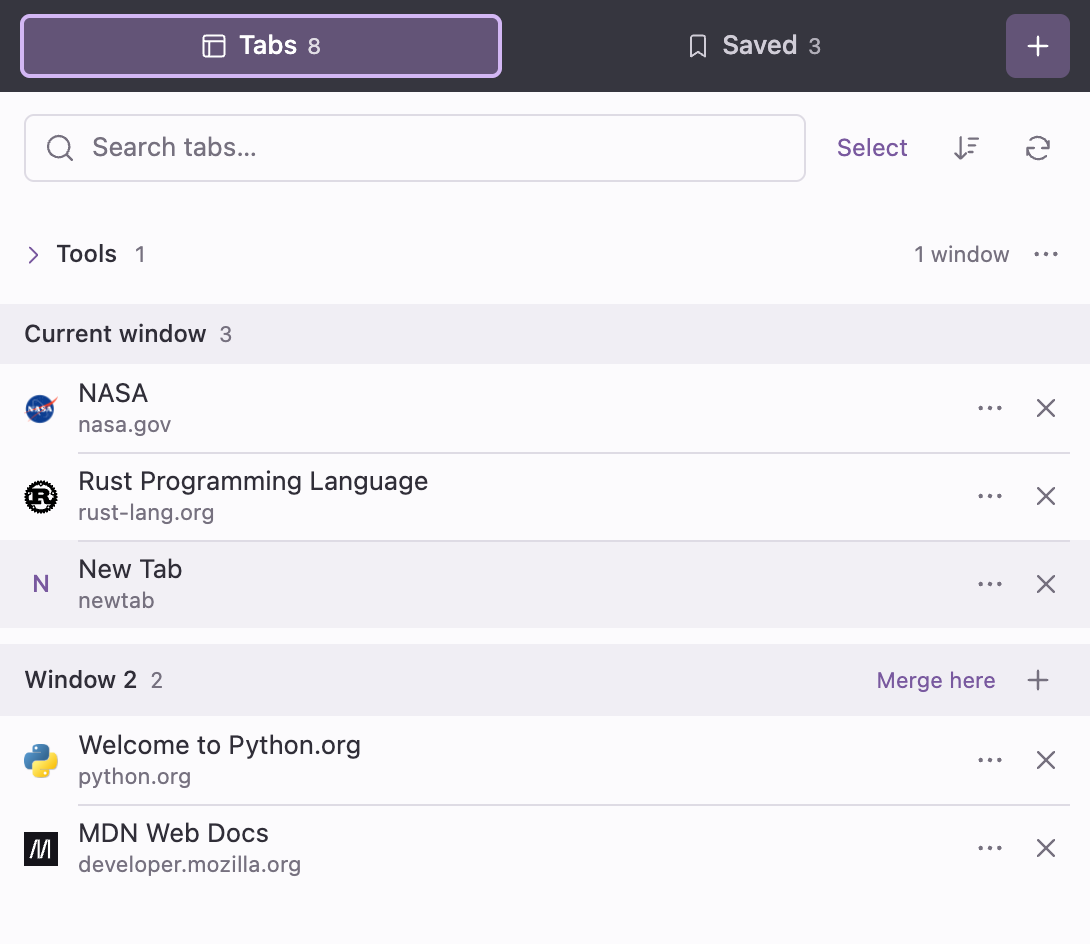
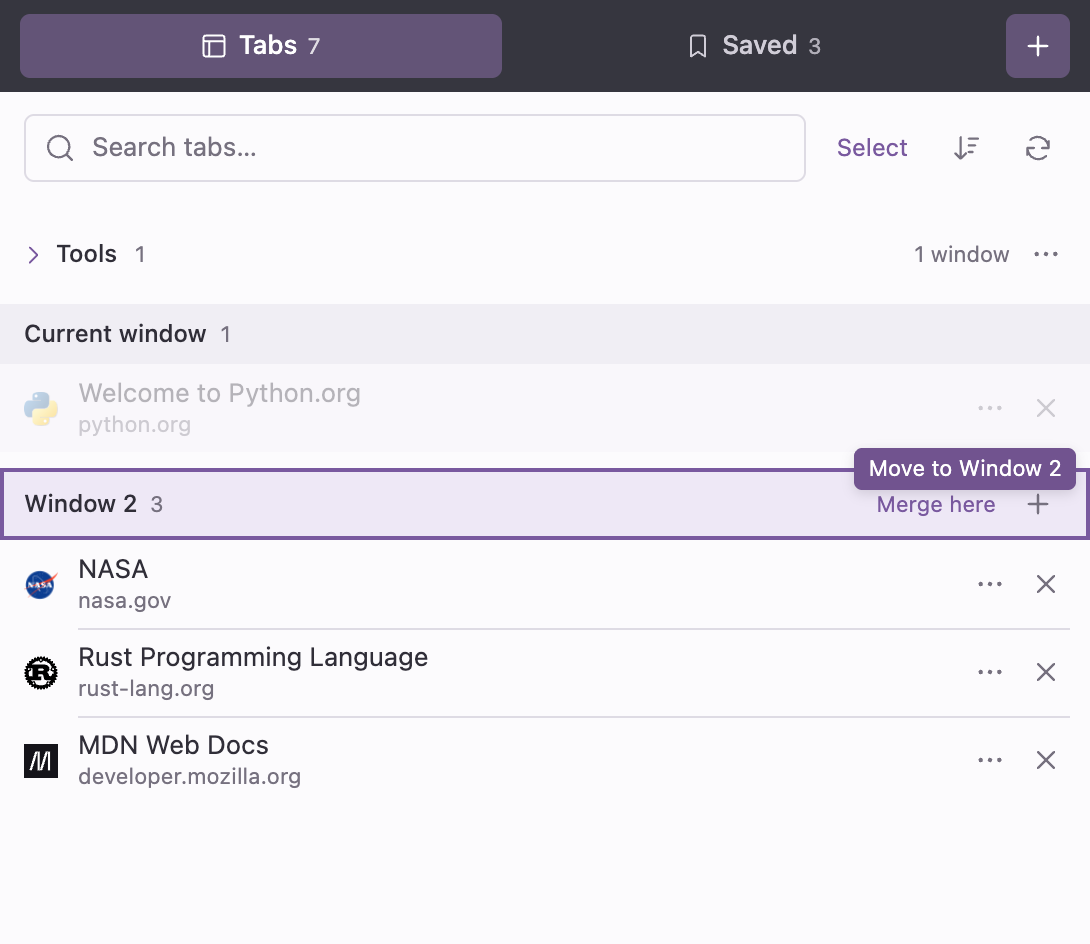
(chore): (Prepare Ztab 2.3.0 with verified upgrade packaging, direct drag release notes, and refreshed store artwork for manual publication)

diff --git a/CHROME_WEB_STORE.md b/CHROME_WEB_STORE.md
@@ -1,66 +1,66 @@
-# Ztab 2.2.0 release
+# Ztab 2.3.0 release
 
-Version **2.2.0** is prepared for release and manual Chrome Web Store upload. It adds New Tab actions in the side panel, updates the optional support recipient and QR code, and refreshes the Store screenshots. This document records local preparation; GitHub release publication and Store upload are separate steps.
+Version **2.3.0** is prepared for release and manual Chrome Web Store upload. Dragging a regular tab onto another window's heading or one of its tabs now moves the real tab to that window immediately. GitHub release publication and Store upload remain separate steps.
 
 ## Release baseline
 
-On **2026-09-22**, the [public Store item](https://chromewebstore.google.com/detail/ztab-tab-manager/fakbifeeblnopdhicpmhhmcdhmefphjp?hl=en) showed **Ztab: The last tab manager you’ll need.**, version **2.1.1**, updated **September 19, 2026**. The previous [GitHub release](https://github.com/z08-studio/ztab/releases/tag/v2.1.1) points to `36e271af1bd98df67c5769fb66f5c5a56900c540`.
+On **2026-10-01**, the [public Store item](https://chromewebstore.google.com/detail/ztab-the-last-tab-manager/fakbifeeblnopdhicpmhhmcdhmefphjp) showed **Ztab: The last tab manager you’ll need.**, version **2.2.0**, updated **September 23, 2026**. This was checked in Chrome; the search index still returned an older version.
 
[2 lines of base64/hex data omitted]
 
-## Changes from 2.1.1 to 2.2.0
+The cross-window drag implementation is merged in [PR #16](https://github.com/z08-studio/ztab/pull/16), commit `a33e3c57500b2d388cb00cfd7e90647e4b22d266`.
+
+## Changes from 2.2.0 to 2.3.0
 
 | Area | Change |
 | --- | --- |
-| New Tab | **+** beside Tabs and Saved creates an active, unpinned tab in the panel's host window, using Chrome's configured New Tab page. |
-| Other windows | **+** on another window's heading creates a tab there and focuses that window. The current-window heading has no duplicate action. |
-| Interactions | New Tab works from Saved, searches, selection, and Move mode. A successful creation returns to Tabs, clears only its search, and reveals the new row. Saved searches remain. Enter and Space activate the buttons. |
-| Failure handling | Pending and duplicate clicks are blocked. Creation failure preserves the view; focus or refresh failure after creation reports that the tab already opened. Host and destination checks preserve normal/private boundaries. |
-| Optional support | The displayed, copied, and QR-encoded recipient is `0x64719eBcD29fBbaDCCFb53Cb16aB18cff81a8067` for USDC on Base. |
-| Store materials | Fresh 2.2.0 captures show New Tab, pinned tabs, bulk selection, and Saved. English listing copy and release notes describe the new actions. |
+| Cross-window dragging | Drop on another window's heading or a regular tab from that window to move the actual tab to the destination window's end. Row centers and edges show **Move to …** immediately in both Recently used and Manual order. |
+| Groups | A successful window move removes the tab's Ztab group membership and reveals it in the destination window section. Failed moves preserve membership and manual order. Same-window grouping, explicit group-header drops, and menu actions remain available. |
+| Window state | The destination keeps its current page selected. Window headings remain drop targets when every tab is grouped. Chrome closes a source window after its last tab moves. |
+| Safety | The background writer validates the original window and membership, rechecks live tabs and destinations, excludes pinned tabs and compact windows, and preserves browsing-mode boundaries. Escape cancels a drag. |
+| Store materials | English listing copy and release notes explain direct dragging. The cover and marquee use a fresh 2.3.0 capture of the move hint. |
 
-The ZIP differs from 2.1.1 in seven runtime files: the manifest, side-panel HTML, panel CSS and JavaScript, workspace controller, support constant, and bundled support QR. There are no new permissions, storage keys, dependencies, or minimum-version changes. **Chrome 123 or later** remains required.
+Six runtime files differ from 2.2.0: the manifest, panel JavaScript and CSS, drag controller, workspace controller, and shared workspace utility. There are no new permissions, storage keys, dependencies, or minimum-version changes. **Chrome 123 or later** remains required.
 
-Saved pages, collections, group definitions, shared pinned sites, and preferences persist. As before, live group membership, manual ordering, and recent-use records reset on an extension update or browser restart. The support dialog does not connect a wallet or initiate a payment.
+Saved pages, collections, group definitions, shared pinned sites, and preferences persist. As before, live group membership, manual ordering, and recent-use records reset on an extension update or browser restart. Groups are not saved browser sessions.
 
 ## Release status and package
 
 | Item | Status |
 | --- | --- |
-| Target version | 2.2.0 in both `manifest.json` and `package.json` |
-| Previous GitHub release | `v2.1.1`; its tag and assets remain unchanged |
+| Target version | 2.3.0 in both `manifest.json` and `package.json` |
+| Previous GitHub release | `v2.2.0`; its tag and assets remain unchanged |
 | Existing Store item | `fakbifeeblnopdhicpmhhmcdhmefphjp` |
-| Public Store version | 2.1.1, verified 2026-09-22 |
-| Local archive | `ztab-2.2.0.zip`; 83,090 bytes (81.1 KiB), built 2026-09-22 |
[1 lines of base64/hex data omitted]
+| Public Store version | 2.2.0, verified 2026-10-01 |
+| Local archive | `ztab-2.3.0.zip`; 83,916 bytes (81.9 KiB), built 2026-10-01 |
[1 lines of base64/hex data omitted]
 | Package contents | 45 runtime files, with `manifest.json` at the archive root |
-| Release branch | `bear-prepare-v2-2-release`, targeting `main` through a release PR |
+| Release branch | `bear-prepare-v2-3-release`, targeting `main` through a release PR |
 | GitHub tag and release | Pending release PR merge and publication |
 | Store upload, review submission, publication | Pending; to be completed manually by Bear |
 
 Run `pnpm assets:store` to regenerate icons and marketing assets. Run `pnpm package` to execute tests, validate versions, JavaScript syntax and manifest references, and generate `dist-store/` plus the ZIP. The package excludes dependencies, tests, development docs, local output, and marketing images. Rebuilding the archive requires updating its size and checksum here.
 
-## Verification — 2026-09-22
+## Verification — 2026-10-01
 
-- [x] Run `pnpm package`: **158 tests pass**; packaged JavaScript syntax and manifest references validate.
-- [x] Verify all 45 archived files match the source and `dist-store/` byte-for-byte; archive integrity and the runtime allowlist pass. Compare all files with the downloaded 2.1.1 ZIP and confirm unchanged permissions and minimum Chrome version.
-- [x] Load the published 2.1.1 package at a fixed unpacked path in an isolated Chrome for Testing **153.0.8010.12** profile on macOS. Seed three Saved entries, a collection, two group definitions, pinned Wikipedia in two windows, and panel preferences. Replace the files with 2.2.0 and reload through Chrome's extension page with Developer mode enabled.
-- [x] Confirm the same extension ID, enabled 2.2.0 version, unchanged Saved entries/collection IDs/group definitions, two pinned copies, pinned origins, and hidden-pins/sort/dismissed-tip preferences. Live membership and manual order clear as documented. Verify New Tab after the upgrade and check the support dialog's new recipient.
-- [x] Retain the feature's native side-panel, keyboard, Saved/search, failure-path, and 280/320/400px light/dark checks in [tests/README.md](tests/README.md#new-tab-checks).
-- [x] Capture the actual 2.2.0 side-panel document with real public pages and regenerate Store materials. Inspect the refreshed sources, cover, and both overview sheets. All five screenshots are 1280×800, the two promotional tiles have the expected dimensions, and all seven marketing images are opaque RGB PNGs. The four approved extension icons remain byte-identical.
-- [x] Run `git diff --check`. Keep documentation, listing copy, screenshot samples, and release notes in English.
+- [x] Run `pnpm test` and `pnpm package`: **170 tests pass**; packaged JavaScript syntax and manifest references validate.
+- [x] Verify all 45 archived files match the source and `dist-store/` byte-for-byte; archive integrity and the runtime allowlist pass. Compare with the downloaded 2.2.0 ZIP and confirm unchanged permissions and minimum Chrome version.
+- [x] Upgrade the published 2.2.0 package at a fixed unpacked path in isolated Chrome for Testing **153.0.8010.12** on macOS, with Developer mode enabled. The extension ID, all seven tab IDs, three Saved entries, a collection, two group definitions, two pinned copies, pinned origins, and hidden-pins/sort/dismissed-tip preferences are preserved. Live membership and manual order reset as documented.
+- [x] Retain the real-browser drag checks and light/dark 320px screenshots in [tests/README.md](tests/README.md#cross-window-drag-verification). They cover both sort modes, heading/row drops, grouped tabs, an empty current-window section, the last source tab, destination selection, Escape, and compact-window rejection.
+- [x] Confirm cross-window dragging and New Tab work after the upgrade. Capture the genuine move hint with public sample pages, regenerate Store artwork with `pnpm assets:store`, and inspect the source, cover, marquee, and review sheets. Other Store screenshots retain their documented earlier captures; icons remain byte-identical.
+- [x] Run `git diff --check` after completing the release documentation and assets.
 
-The local unpacked upgrade does not establish Store delivery. Live incognito creation, third-party New Tab overrides, Windows/Linux, and Chrome 123–129 were not manually rechecked; mode boundaries and creation/focus failure have automated coverage. Local upgrade snapshots, screenshots, and package verification records are in ignored `output/`.
+The local unpacked upgrade does not establish Store delivery. Native side-panel closure during a last-tab move, private-mode dragging, Windows/Linux, and Chrome 123–129 were not manually rerun. Last-source-window completion, mode boundaries, stale state, and failure paths have automated coverage. Local upgrade snapshots and package verification records are in ignored `output/`.
 
 ## Manual Chrome Web Store rollout
 
 Update the [existing item](https://chromewebstore.google.com/detail/fakbifeeblnopdhicpmhhmcdhmefphjp) in the [Developer Dashboard](https://chrome.google.com/webstore/devconsole). Keep its extension ID so installed users receive the update.
 
-1. Merge the release PR into `main`; publish the `v2.2.0` GitHub release against that reviewed source when ready. Attach the verified ZIP and its checksum without replacing older release assets.
-2. Upload **`ztab-2.2.0.zip`** as the new package in the existing Store item.
-3. Use the current English description and **2.2.0** release notes from [store-listing/LISTING.md](store-listing/LISTING.md). Preserve the approved product name and Telegram community invitation.
-4. Upload the 128px icon, five individual screenshots, and two promotional tiles from [store-listing/assets/final/](store-listing/assets/final/), following [ARTWORK.md](store-listing/ARTWORK.md). Do not upload overview sheets or source captures.
+1. Merge the release PR into `main`; publish the `v2.3.0` GitHub release against that reviewed source when ready. Attach the verified ZIP and its checksum without replacing older release assets.
+2. Upload **`ztab-2.3.0.zip`** as the new package in the existing Store item.
+3. Use the English description and **2.3.0** release notes from [store-listing/LISTING.md](store-listing/LISTING.md). Preserve the approved product name and Telegram community invitation.
+4. Replace the cover screenshot (`screenshots/screenshot-01-side-panel.png`) and marquee (`promo-marquee-1400x560.png`) from [store-listing/assets/final/](store-listing/assets/final/). The other screenshots, small promo, and approved icons remain valid. Do not upload overview sheets or source captures.
 5. Check the Dashboard's privacy and permission declarations against the current listing and policy. Support remains `https://github.com/boundless-forest/ztab/issues`; privacy is `https://github.com/boundless-forest/ztab/blob/main/PRIVACY_POLICY.md`. These established links redirect to the current repository.
-6. Save the package and listing changes, submit for review, and record submission separately from public availability. After publication, verify the Store shows **2.2.0**, an installed update retains its ID and persistent data, and New Tab, the toolbar shortcut, and pinned synchronization work. Update this guide and the README after publication is confirmed.
+6. Save the package and listing changes, submit for review, and record submission separately from public availability. After publication, verify the Store shows **2.3.0**, an installed update retains its ID and persistent data, and cross-window dragging, New Tab, the toolbar shortcut, and pinned synchronization work. Update this guide and the README after publication is confirmed.
 
 The current repository is [z08-studio/ztab](https://github.com/z08-studio/ztab). Historical `pinallwindows.*` keys and runtime message names are compatibility identifiers and must not be renamed for this release.

diff --git a/store-listing/QA.md b/store-listing/QA.md
@@ -1,14 +1,14 @@
-# Artwork verification — Ztab 2.2.0 — 2026-09-22
+# Artwork verification — Ztab 2.3.0 — 2026-10-01
 
 - Approved copy: **A — The last tab manager you’ll need.** Documentation, marketing copy, and screenshot samples use English.
 - Approved identity: B1 Tab Hub, P2 indigo. All four regenerated extension icons remain byte-identical to the prior revision.
 - Exports: **5 × 1280×800** Store screenshots, **440×280** and **1400×560** promotional tiles. All seven marketing images are opaque RGB PNGs. Two overview sheets cover the Store images and brand system.
-- Sources: refreshed Tabs, pinned tabs, bulk selection/action bar, and Saved from the actual **Ztab 2.2.0** side-panel document in an isolated Chrome for Testing 153 profile at device scale factor 2. Real Wikipedia, NASA, Python, Rust, and MDN pages are open in two windows. The unchanged keyboard-help dialog retains its earlier capture.
-- Authenticity: the Tools group is collapsed in the main capture. The bulk capture uses an HTTPS search, hidden pinned tabs, and four selected public pages; the action bar comes from the same selection. Saved shows the genuine **Public resources** collection preserved during the upgrade. Counts and product pixels are not edited or reconstructed.
-- Visual review: inspected all refreshed sources, the final cover, and both overview sheets. New Tab controls, window actions, page titles, favicons, and collection names remain readable. Screenshots scale proportionally.
-- Rendering: `pnpm assets:store` completes using bundled Manrope and Instrument Serif fonts. Approved slogan line breaks and source dimensions validate; the cover now shows **Ztab 2.2**.
-- Package: `pnpm package` passes **158 tests**, validates packaged JavaScript and manifest entries, and creates `ztab-2.2.0.zip`. All 45 archived files match the source and staging directory. Version numbers are 2.2.0; permissions remain unchanged.
-- Upgrade: the fixed-path 2.1.1 → 2.2.0 check preserves the extension ID, Saved, collections, group definitions, pinned sites/copies, and panel preferences. See [the release guide](../CHROME_WEB_STORE.md) for evidence and scope.
+- Sources: the main Tabs capture is from the actual **Ztab 2.3.0** extension page after upgrading the published 2.2.0 package in isolated Chrome for Testing **153.0.8010.12** on macOS at device scale factor 2. It shows a real Python-tab drag onto another window's heading. Pins, bulk actions, and Saved retain their unchanged 2.2.0 captures; the unchanged keyboard-help dialog retains its 2.0 capture. Individual dates and versions are recorded in the provenance file.
+- Authenticity: the Tools group is collapsed in the main capture, pinned tabs are hidden, and only public pages are visible. The live **Move to Window 2** hint and destination outline come directly from the running extension. Counts and product pixels are not edited or reconstructed.
+- Visual review: inspected the refreshed source, final cover and marquee, and both overview sheets. The destination hint, New Tab controls, window actions, page titles, and favicons remain readable. Screenshots scale proportionally.
+- Rendering: `pnpm assets:store` completes using bundled Manrope and Instrument Serif fonts. Approved slogan line breaks and source dimensions validate; the cover now shows **Ztab 2.3** and describes direct window moves.
+- Package: `pnpm test` and `pnpm package` pass **170 tests**, validate packaged JavaScript and manifest entries, and create `ztab-2.3.0.zip`. All 45 archived files match the source and staging directory. Version numbers are 2.3.0; permissions and the Chrome 123 minimum remain unchanged.
+- Upgrade: the fixed-path 2.2.0 → 2.3.0 check preserves the extension ID, all seven tab IDs, three Saved entries, a collection, two group definitions, two pinned copies, pinned origins, and panel preferences. Live membership and manual order reset as documented. Cross-window dragging and New Tab work after the upgrade. See [the release guide](../CHROME_WEB_STORE.md) for evidence and scope.
 - Cleanup: browser profiles and review output stay in ignored `output/` or outside the repository. `git diff --check` passes.
 
 These checks cover local source, artwork, and package preparation. Chrome Web Store upload and publication will be completed manually.

diff --git a/store-listing/LISTING.md b/store-listing/LISTING.md
@@ -1,6 +1,6 @@
 # Ztab store listing
 
-Prepared English copy for the **2.2.0** update to the existing Chrome Web Store item. The three product pillars are cross-window tab management, shared pinned tabs, and keyboard shortcuts with thoughtful interactions. Upload and submission will be completed manually; see [the release guide](../CHROME_WEB_STORE.md) for rollout status.
+Prepared English copy for the **2.3.0** update to the existing Chrome Web Store item. The three product pillars are cross-window tab management, shared pinned tabs, and keyboard shortcuts with thoughtful interactions. Upload and submission will be completed manually; see [the release guide](../CHROME_WEB_STORE.md) for rollout status.
 
 ## Product name
 
@@ -34,6 +34,7 @@ MANAGE TABS ACROSS WINDOWS
 • Jump directly to a tab in any normal window
 • Create a new tab with + beside Tabs and Saved, or use + on another window's heading to open one there
 • Move or close regular tabs without bringing each window forward
+• Drag a tab onto another window's heading or one of its tabs to move it there immediately
 • Keep related tabs in Ztab groups across windows without moving their browser tabs
 • Find recently used tabs first, or arrange them in Manual order
 • Select several tabs to group, move, close, or save together
@@ -75,13 +76,28 @@ Ztab works between windows on the same computer and in the same Chrome profile. 
 
 Merge here works between eligible normal windows in the same browsing mode. Chrome closes a source window when its last tab moves. Shared pinned copies are deduplicated; identical regular tabs stay open. There is no merge undo action.
 
-Ztab groups are independent of Chrome's native tab groups. Grouping and sorting change only Ztab's list. Saved is independent of Chrome bookmarks; it contains only pages you explicitly save. Incognito groups and Saved use a separate temporary library, cleared when the last incognito window closes.
+Cross-window dragging moves the real tab to the end of the destination window and removes its Ztab group membership after the move succeeds. The destination keeps its current page selected. It works in both Recently used and Manual order; clear search before dragging. Pinned tabs cannot be dragged, and both windows must be eligible regular windows in the same browsing mode.
+
+Ztab groups are independent of Chrome's native tab groups. Grouping and sorting change only Ztab's list. To create a group by dragging, hold over the center of another tab in the same Chrome window; explicit group-header drops and menu actions can group tabs across windows. Saved is independent of Chrome bookmarks; it contains only pages you explicitly save. Incognito groups and Saved use a separate temporary library, cleared when the last incognito window closes.
 
 JOIN THE COMMUNITY
 
 Have a question, found a bug, or have an idea for Ztab? Join our Telegram community: https://t.me/z08_studio
 
-## Release notes — 2.2.0
+## Release notes — 2.3.0
+
+Ztab 2.3 makes moving tabs between windows a direct drag-and-drop action.
+
+• Drag a tab onto another window's heading or one of its tabs to move it there immediately
+• See the destination in a Move to … hint, with no hold delay in either sort mode
+• Move the actual browser tab instead of creating or joining a group on a cross-window row drop
+• Keep the destination's current page selected and show the moved tab in its window section
+• Move grouped tabs out of their Ztab group only after the browser move succeeds
+• Keep window headings available as drop targets even when all their tabs are grouped
+
+Same-window grouping, explicit group-header drops, and menu actions remain available. No new permissions are required. Your Saved library, collections, group definitions, shared pinned sites, and preferences remain in your local profile. As before, live group membership, manual tab order, and recent-use records reset when the extension updates. Chrome 123 or later is required.
+
+## Previous release notes — 2.2.0
 
 Ztab 2.2 makes it easier to open your next tab without leaving the side panel.
 

diff --git a/store-listing/ARTWORK.md b/store-listing/ARTWORK.md
@@ -34,7 +34,7 @@ The Store image sizes follow the [Chrome Web Store image guidance](https://devel
 
 Use the Store screenshots in this order:
 
-1. **Across windows** — approved slogan and public pages from two Chrome windows; New Tab actions, switching and Merge here are visible.
+1. **Across windows** — approved slogan and a direct window move in Ztab 2.3; the genuine **Move to Window 2** hint appears above the destination heading.
 2. **Pinned tabs** — “Pin once.” The real Wikipedia search shows pinned copies in two windows.
 3. **Keyboard shortcuts** — “Stay in flow.” The actual help dialog accompanies a three-step keyboard sequence.
 4. **Bulk actions** — “A little less tab juggling.” Four public pages selected across windows, with their action bar separately displayed and labeled.
@@ -44,13 +44,15 @@ Use the Store screenshots in this order:
 
 ## Authentic screenshot sources
 
-The windows, pins, bulk selection/action bar, and Saved sources were captured on **2026-09-22** from the actual **Ztab 2.2.0 side-panel document** in an isolated **Chrome for Testing 153** profile using Playwright at device scale factor 2. Real public pages are open in two Chrome windows. The **Public resources** collection contains Wikipedia, NASA and Python pages and was preserved during the verified upgrade from 2.1.1. Public websites also include Rust and MDN; page titles and favicons come from those sites. The unchanged keyboard-help dialog retains its **2026-09-17** capture from installed **Ztab 2.0** in the user's Chrome with Shottr.
+The windows source was refreshed on **2026-10-01** from the actual **Ztab 2.3.0 side-panel document** after a fixed-path upgrade from the published 2.2.0 package in an isolated **Chrome for Testing 153** profile. It shows a real drag from Python to another window's heading. The pointer is held while Chrome captures the **Move to Window 2** hint; no hint or product pixels are added afterward.
+
+The unchanged pins, bulk selection/action bar, and Saved sources retain their **2026-09-22** captures from **Ztab 2.2.0** in an isolated profile. The **Public resources** collection contains Wikipedia, NASA and Python pages and was preserved during the earlier upgrade from 2.1.1. Public websites also include Rust and MDN; page titles and favicons come from those sites. These Playwright captures use device scale factor 2. The unchanged keyboard-help dialog retains its **2026-09-17** capture from installed **Ztab 2.0** in the user's Chrome with Shottr.
 
 Review artifacts stay in ignored `output/` or outside the repository and deliverable ZIP. Only product regions are checked in; no browser account controls or private pages appear. The internal tooling group is collapsed in the window capture, and the bulk capture uses an HTTPS search with pinned tabs hidden. Navigation, fields, rows, counts, dialog and action controls stay exactly as captured.
 
 | Safe source | Size | Visible content |
 | --- | ---: | --- |
-| `side-panel-raw.png` | 1090×944 | Navigation and public pages from two windows |
+| `side-panel-raw.png` | 1090×944 | Navigation, public pages from two windows, and the live cross-window move hint |
 | `pinned-tabs-raw.png` | 1090×544 | Wikipedia search and two pinned copies |
 | `keyboard-raw.png` | 1020×1030 | Complete keyboard-help dialog |
 | `groups-bulk-raw.png` | 1090×760 | Four public pages selected across windows |

diff --git a/store-listing/assets/final/README.md b/store-listing/assets/final/README.md
@@ -6,7 +6,7 @@ Identity: **B1 Tab Hub + P2 indigo**. Slogan: **The last tab manager you’ll ne
 
 - `promo-small-440x280.png`: 440×280 promotional tile.
 - `promo-marquee-1400x560.png`: 1400×560 marquee tile.
-- `screenshots/screenshot-01-side-panel.png`: 1280×800; Ztab 2.2, New Tab actions, and cross-window management.
+- `screenshots/screenshot-01-side-panel.png`: 1280×800; Ztab 2.3 and a real cross-window drag with its destination hint.
 - `screenshots/screenshot-02-pinned-tabs.png`: 1280×800; Wikipedia pinned in two windows.
 - `screenshots/screenshot-03-keyboard.png`: 1280×800; actual keyboard-help dialog.
 - `screenshots/screenshot-04-groups-bulk.png`: 1280×800; four selected pages and the separately labeled action bar.
@@ -16,6 +16,6 @@ Upload the five screenshots in numeric order. Use the repository's `icons/icon12
 
 All seven marketing images are opaque RGB PNGs. Instrument Serif headlines and Manrope details provide consistent typography without relying on system fonts. The layout uses warm paper, ink, and the approved indigo palette.
 
-Tabs, pinned tabs, bulk actions, and Saved are fresh captures from the actual Ztab 2.2.0 side-panel document in an isolated Chrome for Testing profile. They show real public Wikipedia, NASA, Python, Rust and MDN pages in two windows. The unchanged keyboard dialog retains its earlier Ztab 2.0 capture. Browser account controls and private pages are excluded. The real UI pixels are scaled proportionally, never reconstructed.
+The cover and marquee use a Ztab 2.3.0 capture from 2026-10-01 with a real cross-window move hint. Pinned tabs, bulk actions, and Saved retain their unchanged Ztab 2.2.0 captures; the keyboard dialog retains its earlier Ztab 2.0 capture. These show real public Wikipedia, NASA, Python, Rust and MDN pages in two windows. Browser account controls and private pages are excluded. The real UI pixels are scaled proportionally, never reconstructed.
 
 Rebuild with `pnpm assets:store`. See `../../ARTWORK.md` for provenance, exact design rules and verification. The files are prepared locally; rendering does not upload or publish them.

diff --git a/tests/README.md b/tests/README.md
@@ -27,6 +27,14 @@ The tests cover:
 
 Real Chrome window metadata and UI behavior are still validated manually by loading the extension in `chrome://extensions`.
 
+## 2.3 release preparation and upgrade
+
+Verified on 2026-10-01 in isolated Chrome for Testing **153.0.8010.12** on macOS. The downloaded GitHub 2.2.0 ZIP matches its published checksum. Replacing it with the prepared **2.3.0** package at the same unpacked path and reloading with Developer mode enabled preserves the extension ID, all seven real tab IDs, three Saved entries, a collection, two group definitions, two pinned copies, pinned origins, and hidden-pins/manual-sort/dismissed-tip preferences. Live membership and order reset as documented.
+
+After upgrading, dragging Python onto another window's heading shows **Move to Window 2**, moves that existing tab, preserves the destination's active page and tab count, and creates no group. New Tab also works. The real drag supplies the refreshed Store cover and marquee; other captures retain their documented versions. The source, final images, and review sheets were visually checked.
+
+`pnpm test` and `pnpm package` pass **170 tests**. All 45 archived runtime files match the source and staging directory; permissions and Chrome 123 minimum remain unchanged. Store delivery, private-mode dragging, native side-panel closure during a last-tab move, and Windows/Linux were not manually repeated. See [the release guide](../CHROME_WEB_STORE.md) for the ZIP checksum and rollout status; local snapshots are under ignored `output/playwright/release-2.3.0/`.
+
 ## 2.1.1 extension name
 
 Verified on 2026-09-18 in isolated Chrome for Testing 153: the extension list and details page show **Ztab: The last tab manager you’ll need.** in full, with the extension enabled at version **2.1.1**. See the [details screenshot](../docs/screenshots/extension-name-2.1.1.png). `pnpm package` passes all **152 tests**; all 45 packaged files match the source and staging directory. Compared with the published 2.1.0 ZIP, only the manifest's name and version change. Store publication remains a separate step.

diff --git a/README.md b/README.md
@@ -12,7 +12,7 @@ Ztab brings your Chrome windows together with three everyday capabilities:
 
 Ztab was previously named TabSpan. The capital Z follows the Z-series naming convention used by Zdraft.
 
-**Version 2.2.0 is prepared for release and manual Chrome Web Store upload.** It adds New Tab actions for the current or another window and updates the optional support address and QR code. Version 2.1.1 is the previous GitHub release. See the [release guide](CHROME_WEB_STORE.md) for package verification, release notes, and rollout status.
+**Version 2.3.0 is prepared for release and manual Chrome Web Store upload.** Drag a tab onto another window's heading or a tab from that window to move it there immediately. Version 2.2.0 is the previous GitHub release. See the [release guide](CHROME_WEB_STORE.md) for package verification, release notes, and rollout status.
 
 Ztab requires **Chrome 123 or later**. Older Chrome installations remain on their previous compatible extension version until Chrome is upgraded.
 
@@ -27,7 +27,7 @@ From the side panel, you can:
 - See which tabs belong to each window.
 - Jump directly to a tab in any window.
 - Create a tab with **+** beside Tabs and Saved, or use **+** on another window's heading to create one there.
-- Move regular tabs between windows.
+- Drag regular tabs onto another window's heading or one of its tabs to move them there immediately.
 - Merge another window into your current window with one click.
 - Close regular tabs without switching windows first.
 - Hide the pinned-tabs section when you want a more compact view.
